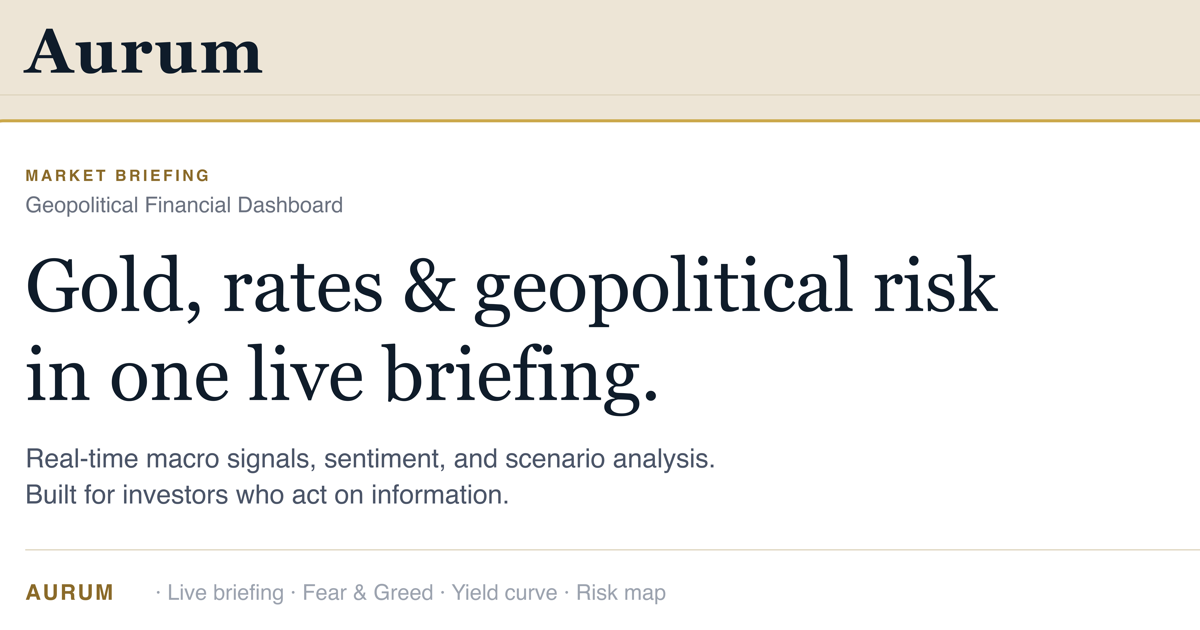
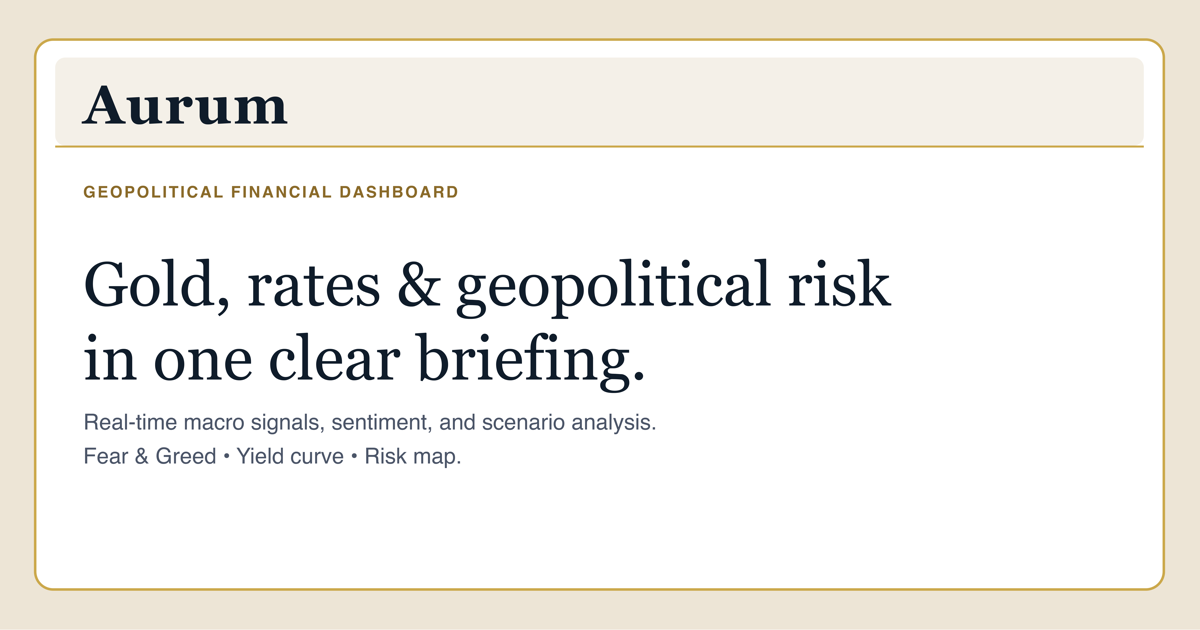
fix: fresh news every run, mobile sticky tabs/cutoff, final social thumbnail

Changed region(s): [[0.0, 0.0302, 1.0, 1.0]]

diff --git a/fetch.js b/fetch.js
@@ -65,7 +65,7 @@ const SANITY = {
   silver:   { min: 10,   max: 150  },
   platinum: { min: 400,  max: 3000 },
 };
-const NEWS_MAX_AGE_HOURS = 72;
+const NEWS_MAX_AGE_HOURS = 24;
 
 // ── UTILITIES ────────────────────────────────────────────────────────────────
 
@@ -160,6 +160,11 @@ function isRecent(isoTs, maxHours = NEWS_MAX_AGE_HOURS) {
   const t = new Date(isoTs).getTime();
   if (!Number.isFinite(t)) return false;
   return ((Date.now() - t) / (1000 * 60 * 60)) <= maxHours;
+}
+
+function hasFreshNews(items, maxHours = NEWS_MAX_AGE_HOURS) {
+  if (!Array.isArray(items) || !items.length) return false;
+  return items.some(i => isRecent(i?.published, maxHours));
 }
 
 function daysInMonthUTC(date = new Date()) {
@@ -516,7 +521,9 @@ async function fetchNewsDataNews() {
   const q = encodeURIComponent('gold OR federal reserve OR inflation OR stock market OR treasury yield');
   const url = `https://newsdata.io/api/1/news?apikey=${CONFIG.newsdata}&language=en&category=business&q=${q}`;
   const data = await fetchJSON(url);
-  return (data?.results ?? []).slice(0, 8).map(a => ({
+  const raw = data?.results;
+  const rows = Array.isArray(raw) ? raw : (raw && typeof raw === 'object' ? Object.values(raw) : []);
+  return rows.slice(0, 8).map(a => ({
     text: a.title, source: a.source_id || a.source_name, tone: classifyTone(a.title || ''), url: a.link, published: a.pubDate,
   })).filter(i => i.text && isRecent(i.published));
 }
@@ -558,11 +565,12 @@ function selectRelevantNews(items) {
 }
 
 const NEWS_PROVIDER_POLICIES = {
-  finnhub:   { minHours: 6 },                 // free tier is RPM-based; cadence keeps usage low
-  marketaux: { minHours: 6, maxPerDay: 100 }, // free: 100/day
-  newsdata:  { minHours: 6, maxPerDay: 200 }, // free: 200 credits/day
-  newsapi:   { minHours: 6, maxPerDay: 100 }, // free: 100/day
-  gnews:     { minHours: 6, maxPerDay: 100 }, // free: 100/day
+  // Run on every pipeline execution (4x/day). Daily caps still protect quotas.
+  finnhub:   { minHours: 0 },                  // RPM-based free tier; safe at 4/day
+  marketaux: { minHours: 0, maxPerDay: 100 },  // free: 100/day
+  newsdata:  { minHours: 0, maxPerDay: 200 },  // free: 200/day
+  newsapi:   { minHours: 0, maxPerDay: 100 },  // free: 100/day
+  gnews:     { minHours: 0, maxPerDay: 100 },  // free: 100/day
 };
 
 async function fetchNewsWithFallback(existing, now = new Date()) {
@@ -615,15 +623,20 @@ async function fetchGeopolitical() {
 
   let data = null;
   let lastErr = null;
-  for (let attempt = 0; attempt < 3; attempt++) {
+  for (let attempt = 0; attempt < 4; attempt++) {
     try {
       data = await fetchJSON(url);
       lastErr = null;
       break;
     } catch (err) {
       lastErr = err;
-      if (attempt < 2) {
-        const backoffMs = 5500 + Math.floor(Math.random() * 2001); // 5.5-7.5s — respects GDELT's 5s rate limit
+      if (attempt < 3) {
+        const msg = String(err?.message ?? '');
+        const isRateLimited = /Please limit requests to one every 5 seconds/i.test(msg) || /429/.test(msg);
+        const floorMs = isRateLimited ? 6500 : 5500;
+        const stepMs = attempt * 1500;
+        const jitterMs = Math.floor(Math.random() * 1500);
+        const backoffMs = floorMs + stepMs + jitterMs;
         await sleep(backoffMs);
       }
     }
@@ -1035,10 +1048,10 @@ async function main() {
     { text: 'Gold holds firm as safe-haven demand persists amid macro headwinds', source: 'Aurum Intelligence', tone: 'neutral', url: '#', published: new Date().toISOString() },
     { text: 'Federal Reserve policy path remains key focus for bond and equity markets', source: 'Aurum Intelligence', tone: 'neutral', url: '#', published: new Date().toISOString() },
   ];
+  const existingNews = existing?.sentiment?.newsItems ?? [];
   const resolvedNewsItems =
     (news?.items?.length > 0) ? news.items :
-    (existing?.sentiment?.newsItems?.length > 0) ? existing.sentiment.newsItems :
-    sentinelItems;
+    (hasFreshNews(existingNews) ? existingNews : sentinelItems);
 
   // 8. Assemble the final snapshot
   const snapshot = {

diff --git a/index.html b/index.html
@@ -7,15 +7,15 @@
 <meta name="description" content="Aurum Pulse is a live financial intelligence dashboard covering macro, markets, geopolitical risk, and sentiment in one view." />
 <meta property="og:type" content="website" />
 <meta property="og:site_name" content="Aurum Pulse" />
-<meta property="og:title" content="Aurum Pulse | Financial Intelligence Dashboard" />
-<meta property="og:description" content="Live macro, market, and geopolitical intelligence with clear briefing signals." />
+<meta property="og:title" content="Aurum Pulse" />
+<meta property="og:description" content="Geopolitical and macro market dashboard." />
 <meta property="og:url" content="https://aurumpulse.netlify.app/" />
 <meta property="og:image" content="https://aurumpulse.netlify.app/assets/brand/aurum-social-thumbnail.png" />
 <meta property="og:image:width" content="1200" />
 <meta property="og:image:height" content="630" />
 <meta name="twitter:card" content="summary_large_image" />
-<meta name="twitter:title" content="Aurum Pulse | Financial Intelligence Dashboard" />
-<meta name="twitter:description" content="Live macro, market, and geopolitical intelligence with clear briefing signals." />
+<meta name="twitter:title" content="Aurum Pulse" />
+<meta name="twitter:description" content="Geopolitical and macro market dashboard." />
 <meta name="twitter:image" content="https://aurumpulse.netlify.app/assets/brand/aurum-social-thumbnail.png" />
 <link rel="icon" href="assets/brand/favicon/favicon.svg" type="image/svg+xml">
 <link rel="icon" type="image/png" sizes="32x32" href="assets/brand/favicon/favicon-32.png">
@@ -335,7 +335,14 @@ h1.b-headline{font-family:'DM Serif Display',serif !important;font-weight:400 !i
   .cprice { font-size: 34px; }
   .nav { padding: 0 16px; }
   .page-outer { padding: 12px 14px 0; }
-  .tabs-wrap { padding: 0 14px; }
+  .tabs-wrap {
+    padding: 0 14px;
+    position: sticky;
+    top: 0;
+    z-index: 120;
+    background: var(--parchment);
+    border-bottom: 1px solid rgba(221,211,188,0.7);
+  }
   .page { padding: 16px 14px calc(56px + env(safe-area-inset-bottom,0px)); }
   .gnsplit { grid-template-columns: 1fr; }
   .impgrid { grid-template-columns: repeat(2, 1fr); }
@@ -364,6 +371,11 @@ h1.b-headline{font-family:'DM Serif Display',serif !important;font-weight:400 !i
   .cprice { font-size: 30px; }
   .b-headline, .b-hl { font-size: 20px !important; }
   .page { padding: 14px 12px 54px; }
+  .ccrd-body { padding: 12px; }
+  .macro-stat-row { margin-left: -2px; margin-right: -2px; }
+  .mstat { min-width: 62px; padding: 9px 10px; }
+  .mstat-label { font-size: 8px; letter-spacing: 0.06em; }
+  .mstat-val { font-size: 16px; }
   /* Hotspot score badge smaller */
   .hs-score { width: 24px; height: 24px; font-size: 12px; }
   .hs-title { font-size: 14px; }
@@ -1647,12 +1659,12 @@ function buildTicker(items) {
 })();
 
 async function loadLiveBriefing() {
-  // Primary: local committed snapshot (reliable on Netlify deploys).
-  // Fallback: historical gist endpoint (if available).
+  // Primary: live Gist snapshot (fresh data from pipeline).
+  // Fallback: local committed snapshot (deploy safety net).
   const urls = [
-    './aurum-data.json',
     'https://gist.githubusercontent.com/aninablack/a75d53425ebda6a21eac8bb78baf0a19/raw/aurum-data.json',
     'https://gist.githubusercontent.com/aninablack/8d863391f3e9cbf2205dbf013e47b14a/raw/aurum-data.json',
+    './aurum-data.json',
   ];
   try {
     let data = null;
